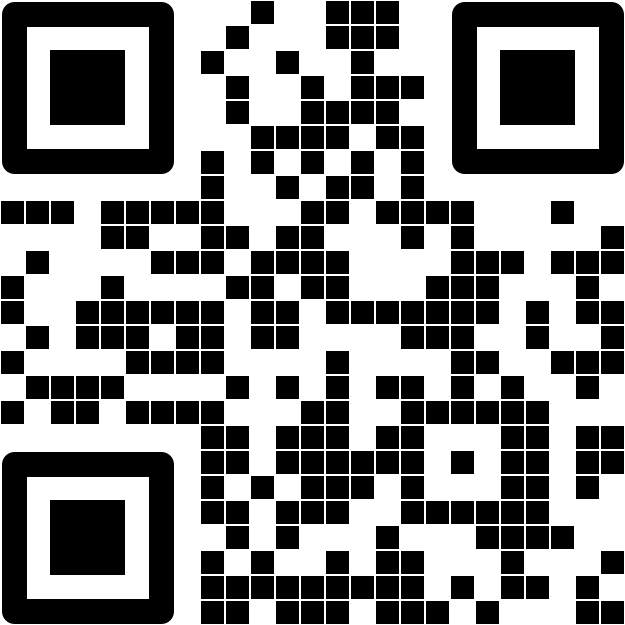
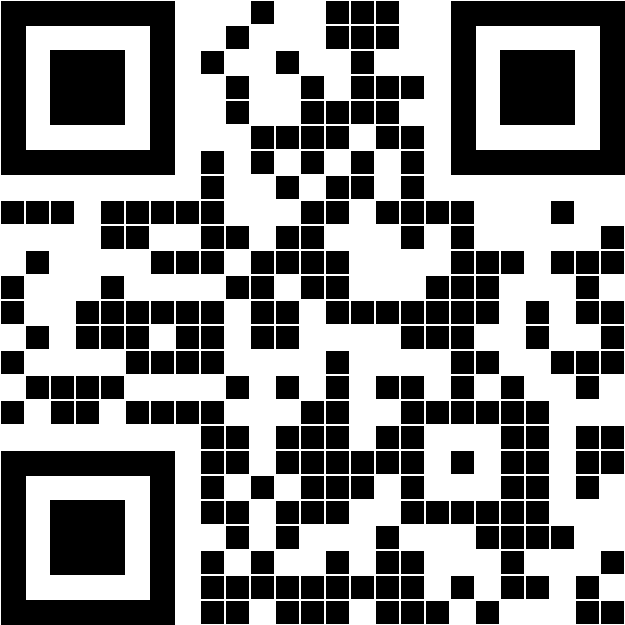
fix(size-2): Size 2 is an Ultrakill reference

diff --git a/examples/kotlin/src/main/kotlin/Example08-TextCaption.kt b/examples/kotlin/src/main/kotlin/Example08-TextCaption.kt
@@ -11,16 +11,35 @@ import kotlin.math.floor
 import kotlin.math.max
 
 fun main() {
+    val canvasCaption = createQRCodeWithCaption("QRCode with Caption")
+
+    FileOutputStream("examples/kotlin/examples-results/example08-caption.png")
+        .use { ImageIO.write(canvasCaption, "PNG", it) }
+
     // ----------------------------------
 
-    val firstQRCode = QRCode.ofSquares().build("First Example")
-    val firstQRCodeCanvas = firstQRCode.render().nativeImage() as BufferedImage
-    val firstQRCodeWidth = firstQRCodeCanvas.width
-    firstQRCodeCanvas.height
-    val captionTextGraphics2d = firstQRCodeCanvas.createGraphics()
-    val (captionTextWidth, captionTextHeight) = fitText(firstQRCode.data, firstQRCodeWidth, captionTextGraphics2d)
+    val customFont = loadFont("MozillaHeadline-Regular.ttf")
+    val canvasCaptionWithCustomFont = createQRCodeWithCaption("Custom Font: Mozilla Headline", customFont)
 
-    val canvasCaption = BufferedImage(
+    FileOutputStream("examples/kotlin/examples-results/example08-caption-customFont.png")
+        .use { ImageIO.write(canvasCaptionWithCustomFont, "PNG", it) }
+}
+
+fun createQRCodeWithCaption(caption: String, customFont: Font? = null): BufferedImage {
+    val qrCode = QRCode.ofSquares().build(caption)
+    val qrCodeCanvas = qrCode.render().nativeImage() as BufferedImage
+    val qrCodeWidth = qrCodeCanvas.width
+    val qrCodeHeight = qrCodeCanvas.height
+    val captionTextGraphics2d = qrCodeCanvas.createGraphics()
+        .apply {
+            if (customFont != null) {
+                font = customFont
+            }
+        }
+    val (captionTextWidth, captionTextHeight) = fitText(qrCode.data, qrCodeWidth, captionTextGraphics2d)
+
+    // Generate the QRCode + Caption into a BufferedImage and return it
+    return BufferedImage(
         max(qrCodeWidth, captionTextWidth),
         qrCodeHeight + captionTextHeight * 2,
         BufferedImage.TYPE_INT_ARGB,
@@ -32,77 +51,12 @@ fun main() {
             paint = Color.BLACK
             background = Color.BLACK
             setRenderingHint(RenderingHints.KEY_TEXT_ANTIALIASING, RenderingHints.VALUE_TEXT_ANTIALIAS_ON)
-            drawString(qrCodeText, qrCodeWidth / 2 - captionTextWidth / 2, qrCodeHeight + captionTextHeight / 2 + fontMetrics.ascent)
+            drawString(
+                caption,
+                qrCodeWidth / 2 - captionTextWidth / 2,
+                qrCodeHeight + captionTextHeight / 2 + fontMetrics.ascent,
+            )
         }
-    }
-
-    // ----------------------------------
-
-    val customFontTextGraphics2d = qrCodeCanvas.createGraphics()
-        .apply { font = loadFont("MozillaHeadline-Regular.ttf") }
-    val (customFontTextWidth, customFontTextHeight) = fitText(
-        qrCodeText,
-        qrCodeWidth,
-        customFontTextGraphics2d,
-    )
-
-    BufferedImage(
-        max(qrCodeWidth, customFontTextWidth),
-        qrCodeHeight + customFontTextHeight * 2,
-        BufferedImage.TYPE_INT_ARGB,
-    ).also {
-        it.createGraphics().apply {
-            drawImage(qrCodeCanvas, 0, 0, null)
-
-            font = customFontTextGraphics2d.font
-            paint = Color.BLACK
-            background = Color.BLACK
-            setRenderingHint(RenderingHints.KEY_TEXT_ANTIALIASING, RenderingHints.VALUE_TEXT_ANTIALIAS_ON)
-            drawString(qrCodeText, qrCodeWidth / 2 - captionTextWidth / 2, qrCodeHeight + captionTextHeight / 2 + fontMetrics.ascent)
-        }
-    }
-
-    // ----------------------------------
-
-    val customFontTextGraphics2d = qrCodeCanvas.createGraphics()
-        .apply { font = loadFont("MozillaHeadline-Regular.ttf") }
-    val (customFontTextWidth, customFontTextHeight) = fitText(
-        qrCodeText,
-        qrCodeWidth,
-        customFontTextGraphics2d,
-    )
-
-    val canvasCustomFont = BufferedImage(
-        max(qrCodeWidth, customFontTextWidth),
-        qrCodeHeight + customFontTextHeight * 2,
-        BufferedImage.TYPE_INT_ARGB,
-    ).also {
-        it.createGraphics().apply {
-            drawImage(qrCodeCanvas, 0, 0, null)
-
-            font = customFontTextGraphics2d.font
-            paint = Color.BLACK
-            background = Color.BLACK
-            setRenderingHint(RenderingHints.KEY_TEXT_ANTIALIASING, RenderingHints.VALUE_TEXT_ANTIALIAS_ON)
-            drawString(qrCodeText, qrCodeWidth / 2 - captionTextWidth / 2, qrCodeHeight + captionTextHeight / 2 + fontMetrics.ascent)
-        }
-    }
-
-    // ----------------------------------
-
-    FileOutputStream("examples/kotlin/examples-results/example08-caption.png").use {
-        ImageIO.write(
-            canvasCaption,
-            "PNG",
-            it,
-        )
-    }
-    FileOutputStream("examples/kotlin/examples-results/example08-caption-customFont.png").use {
-        ImageIO.write(
-            canvasCustomFont,
-            "PNG",
-            it,
-        )
     }
 }
 

diff --git a/src/jvmMain/kotlin/qrcode/render/QRCodeGraphics.jvm.kt b/src/jvmMain/kotlin/qrcode/render/QRCodeGraphics.jvm.kt
@@ -9,6 +9,8 @@ import java.awt.image.BufferedImage
 import java.io.ByteArrayInputStream
 import java.io.ByteArrayOutputStream
 import java.io.OutputStream
+import java.math.BigDecimal
+import java.math.RoundingMode.FLOOR
 import java.util.function.Consumer
 import javax.imageio.ImageIO
 import kotlin.math.roundToInt
@@ -68,12 +70,15 @@ actual open class QRCodeGraphics actual constructor(
         val jdkColor = colorCache.computeIfAbsent(color) { Color(color, true) }
 
         if (strokeThickness != null && strokeThickness > 0) {
-            graphics.stroke = BasicStroke(strokeThickness.toFloat(), BasicStroke.CAP_ROUND, BasicStroke.JOIN_ROUND)
+            graphics.stroke = BasicStroke(strokeThickness.toFloat())
         }
         graphics.color = jdkColor
         graphics.background = jdkColor
         graphics.paint = jdkColor
-        graphics.setRenderingHint(KEY_ANTIALIASING, VALUE_ANTIALIAS_ON)
+
+        if (width >= 100) {
+            graphics.setRenderingHint(KEY_ANTIALIASING, VALUE_ANTIALIAS_ON)
+        }
 
         action(graphics)
 
@@ -153,13 +158,23 @@ actual open class QRCodeGraphics actual constructor(
     /** Draw the edges of a rectangle starting at point `(x,y)` and having `width` by `height`. */
     actual open fun drawRect(x: Int, y: Int, width: Int, height: Int, color: Int, thickness: Double) {
         draw(color, thickness) {
-            val halfThickness = (thickness / 2.0).roundToInt().coerceAtLeast(0)
-            it.drawRect(
-                x + halfThickness + customImageOffsetX,
-                y + halfThickness + customImageOffsetY,
-                width - halfThickness * 2,
-                height - halfThickness * 2,
-            )
+            if (width >= 100) {
+                val halfThickness = roundDown(thickness / 2.0)
+
+                it.drawRect(
+                    x + halfThickness + customImageOffsetX,
+                    y + halfThickness + customImageOffsetY,
+                    width - halfThickness * 2,
+                    height - halfThickness * 2,
+                )
+            } else {
+                it.drawRect(
+                    x + customImageOffsetX,
+                    y + customImageOffsetY,
+                    width,
+                    height,
+                )
+            }
         }
     }
 
@@ -204,7 +219,7 @@ actual open class QRCodeGraphics actual constructor(
         thickness: Double,
     ) {
         draw(color, thickness) {
-            val halfThickness = (thickness / 2.0).roundToInt().coerceAtLeast(0)
+            val halfThickness = roundDown(thickness / 2.0)
             it.drawRoundRect(
                 x + halfThickness + customImageOffsetX,
                 y + halfThickness + customImageOffsetY,
@@ -305,4 +320,7 @@ actual open class QRCodeGraphics actual constructor(
             action.accept(it)
         }
     }
+
+    private fun roundDown(value: Double): Int =
+        BigDecimal.valueOf(value).setScale(0, FLOOR).toInt().coerceAtLeast(0)
 }

diff --git a/src/commonMain/kotlin/qrcode/shape/DefaultShapeFunction.kt b/src/commonMain/kotlin/qrcode/shape/DefaultShapeFunction.kt
@@ -15,7 +15,7 @@ open class DefaultShapeFunction(
     squareSize: Int = DEFAULT_CELL_SIZE,
     val innerSpace: Int = 1,
 ) : QRCodeShapeFunction {
-    private var innerSpacing = innerSpace.coerceIn(0..(squareSize / 2))
+    private var innerSpacing = innerSpace.coerceIn(0..(squareSize / 2)).takeIf { it < squareSize } ?: 0
     var squareSize: Int = squareSize
         private set
 
@@ -23,7 +23,7 @@ open class DefaultShapeFunction(
         val sizeRatio: Double = newSquareSize / squareSize.toDouble()
 
         squareSize = newSquareSize
-        innerSpacing = (innerSpace * sizeRatio).toInt().coerceIn(0..(newSquareSize / 2))
+        innerSpacing = (innerSpace * sizeRatio).toInt().coerceIn(0..(newSquareSize / 2)).takeIf { it < squareSize } ?: 0
     }
 
     override fun renderSquare(
